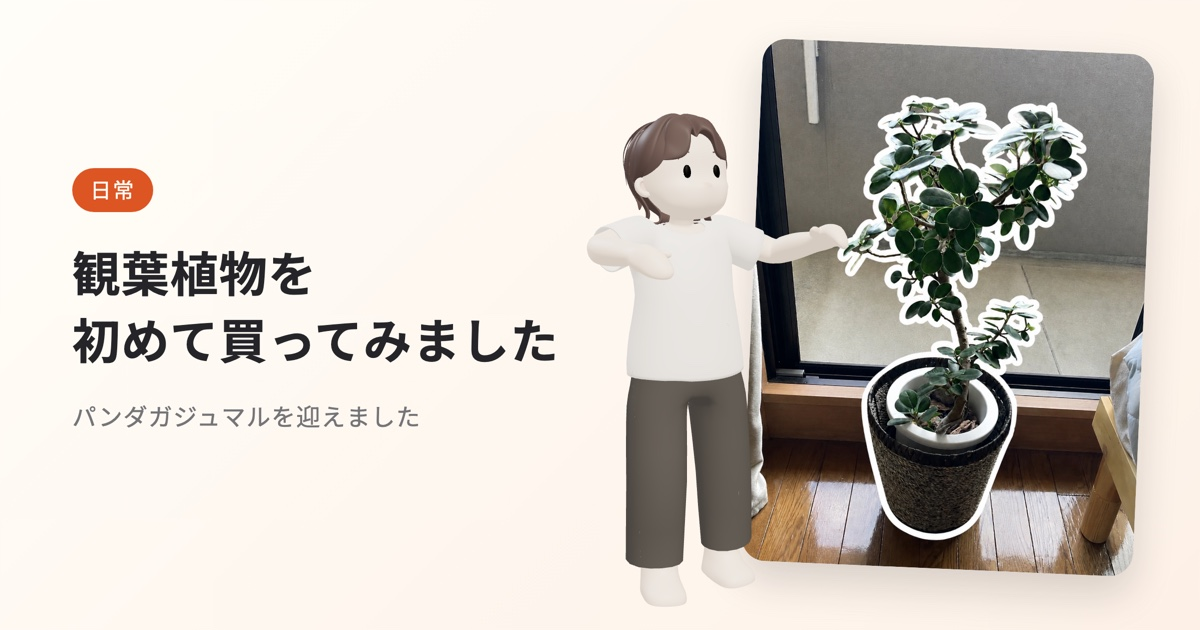
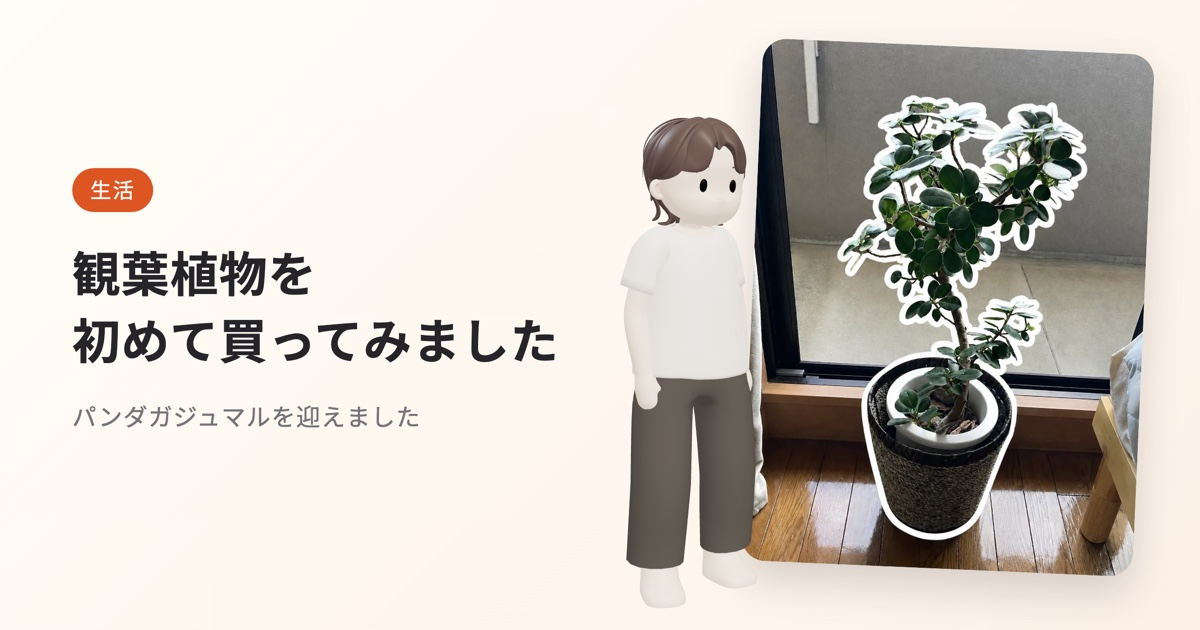
refactor: ブログのカテゴリ「日常」を「生活」に変えた
表示名だけの変更で、frontmatter に書く値は life のまま。
サムネイルのラベルも合わせて作り直した。

ついでにアバターのポーズを、腕を振る途中の中途半端なところではなく、
木を眺めて立っているフレームに差し替えた。

diff --git a/src/lib/blogCategories.ts b/src/lib/blogCategories.ts
@@ -5,7 +5,7 @@
 export const BLOG_CATEGORIES = {
 	tech: "テック",
 	dev: "開発日記",
-	life: "日常",
+	life: "生活",
 } as const;
 
 export type BlogCategory = keyof typeof BLOG_CATEGORIES;

diff --git a/README.md b/README.md
@@ -21,7 +21,7 @@ pnpm new:post
 
 どちらも `category` で一覧を絞り込めます。
 
-- ブログ … `tech`（テック）・`dev`（開発日記）・`life`（日常）
+- ブログ … `tech`（テック）・`dev`（開発日記）・`life`（生活）
 - 制作物 … `software`（ソフトウェア）・`cg`（CG）・`music`（音楽）
 
 ブログの一覧はZennの記事と混ざって新しい順に並びます。Zennの記事は `tech` として扱われます。
